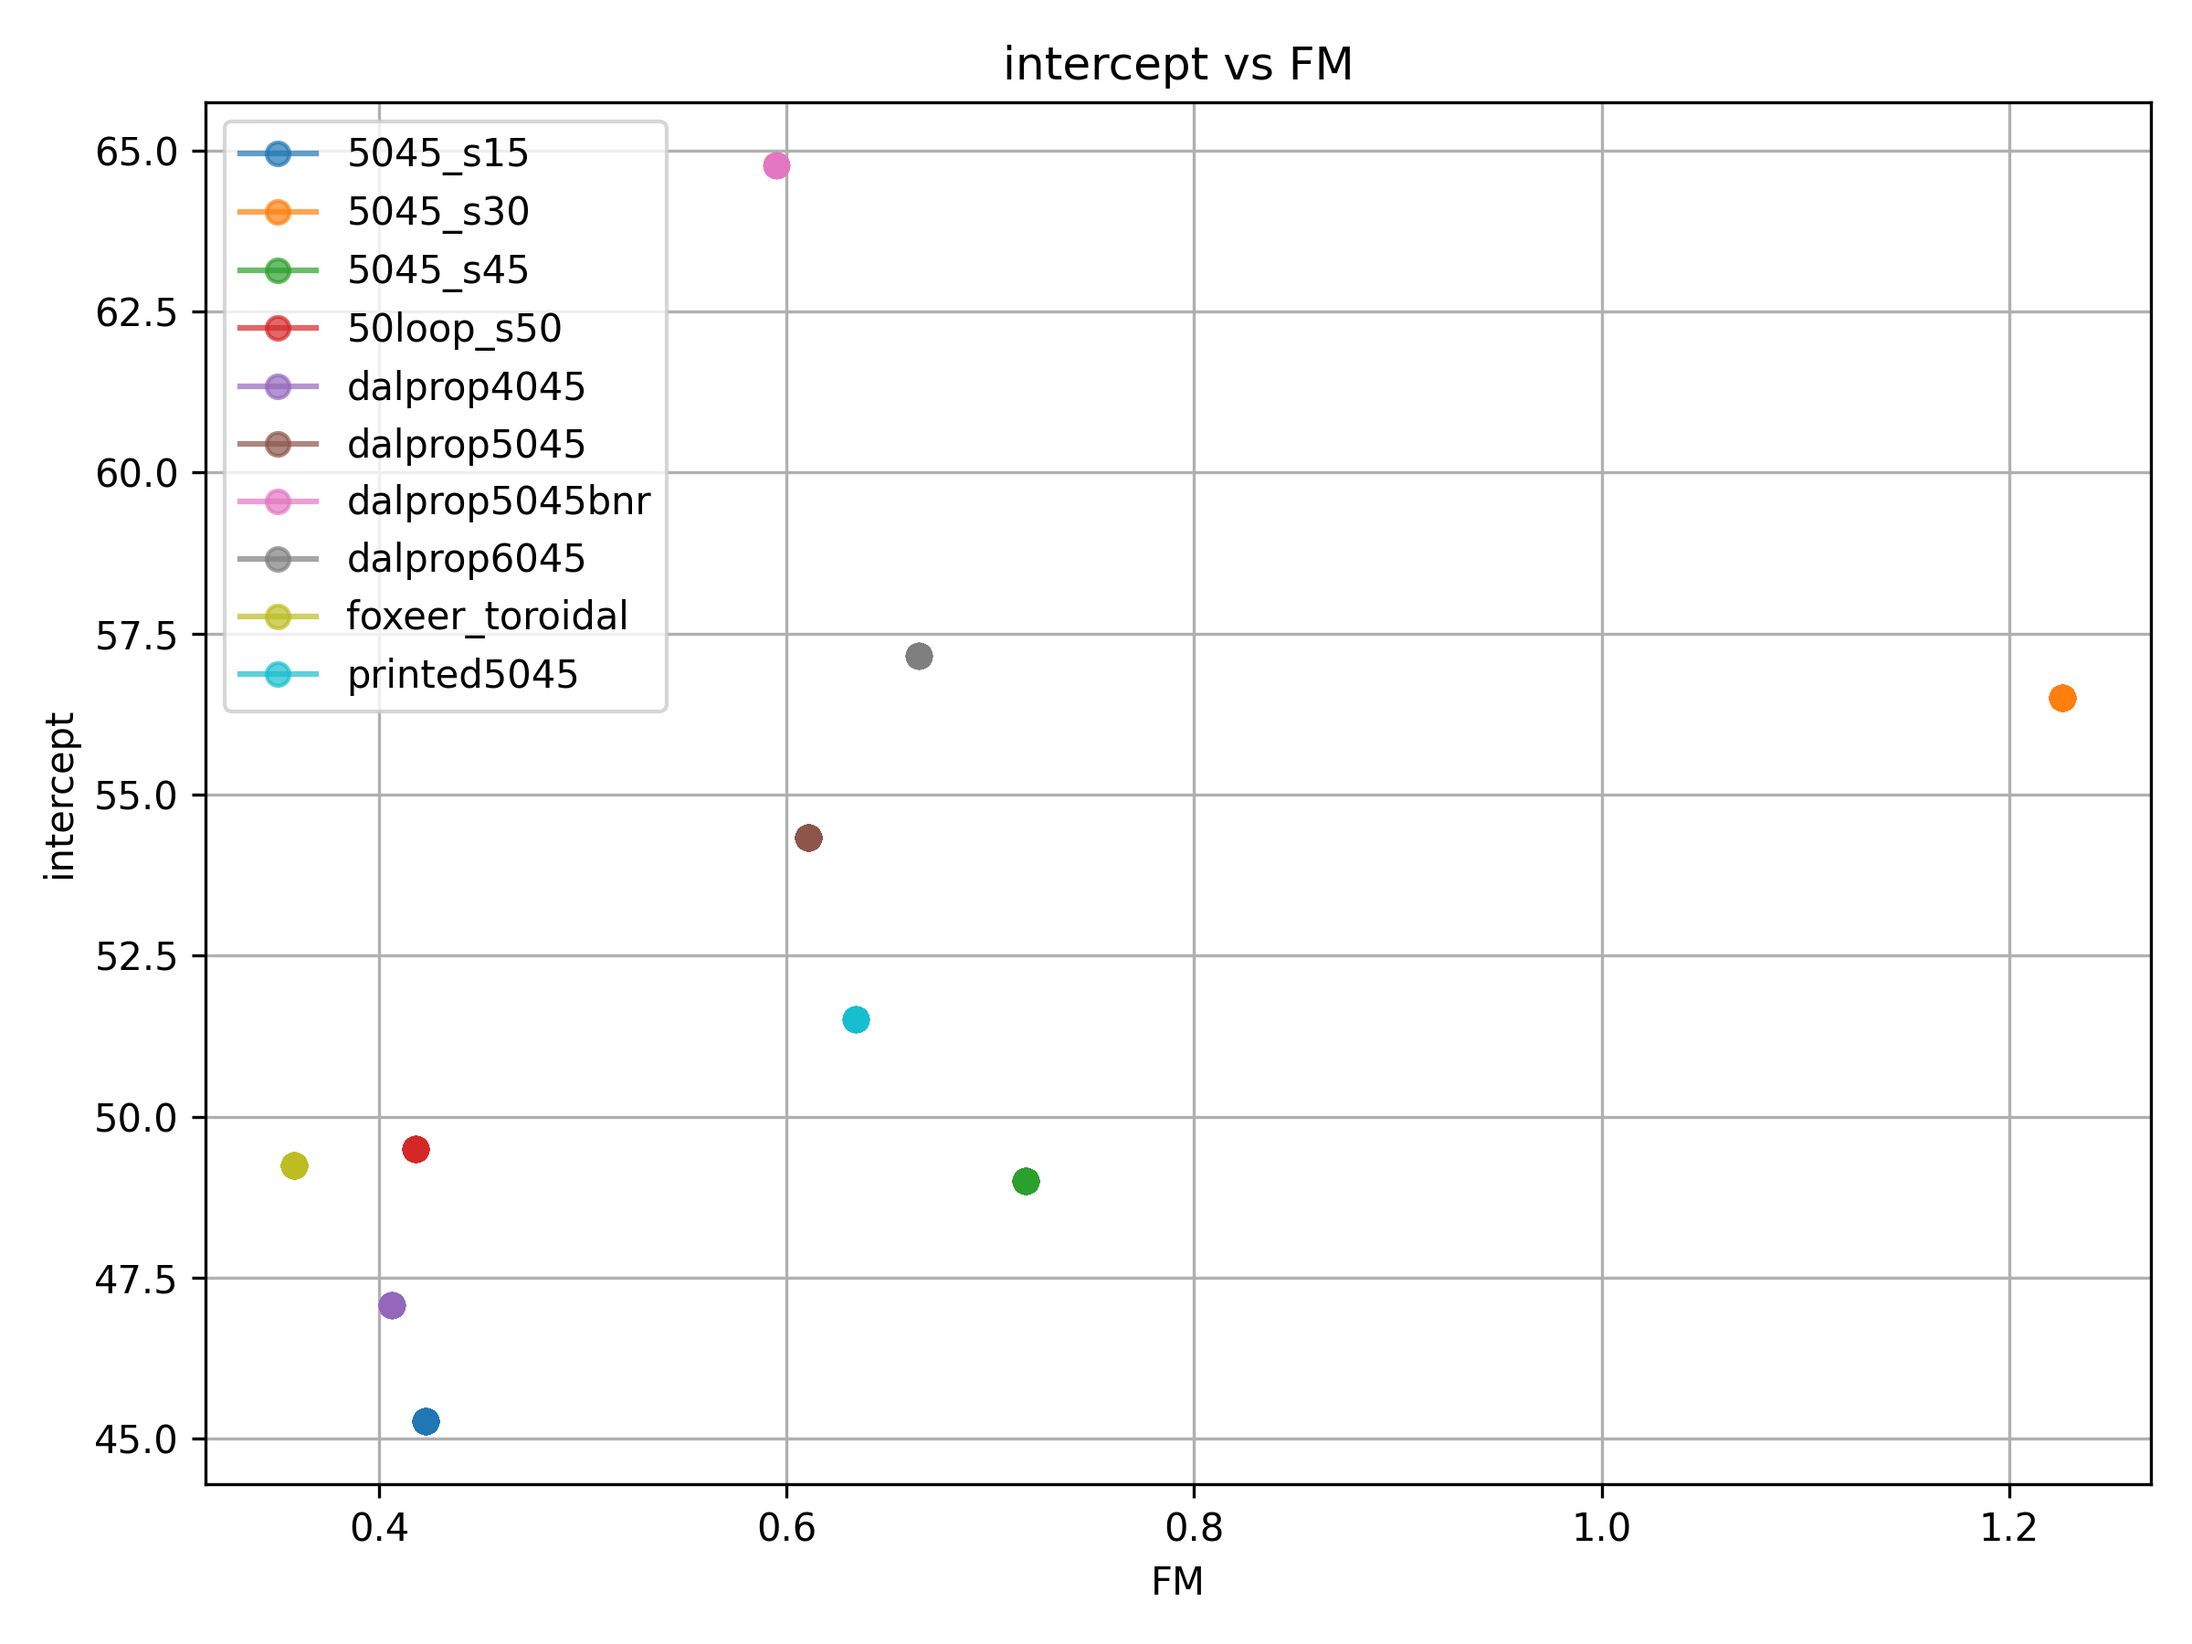
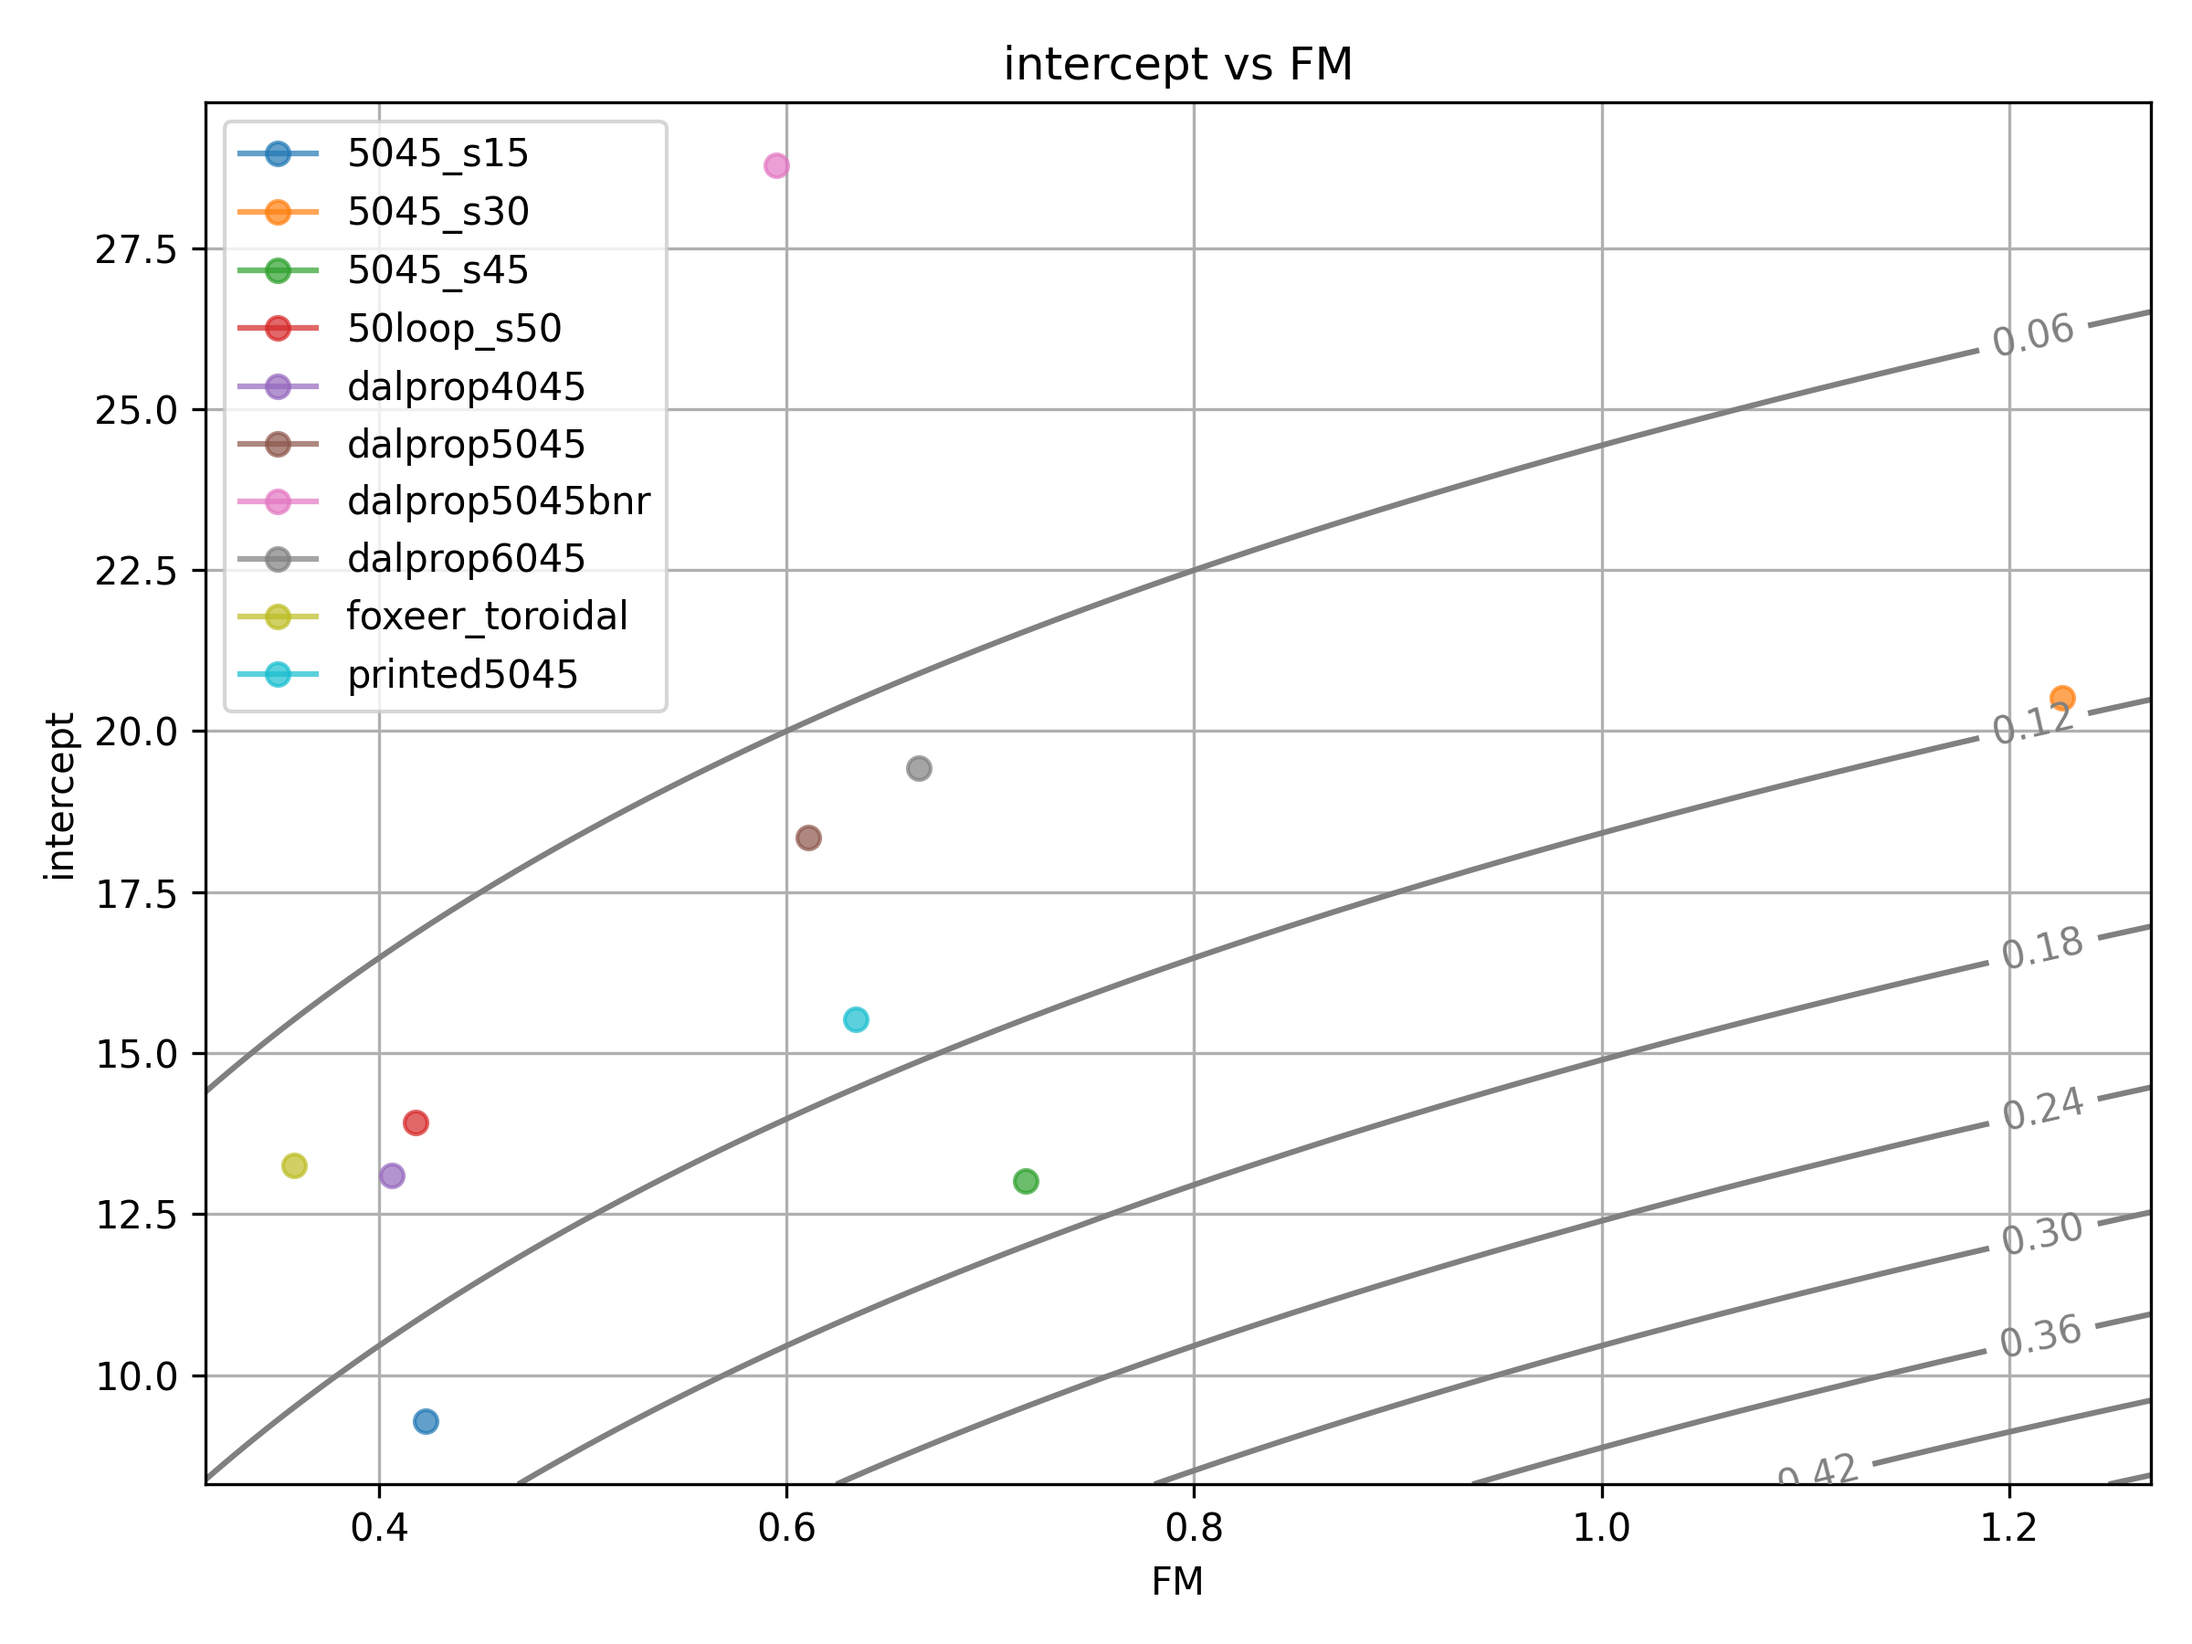
nothing learnt from theory I think im going to abandon ship and focus on the development of the method

diff --git a/app/theory/hanson_comp_quadratic.py b/app/theory/hanson_comp_quadratic.py
@@ -116,7 +116,7 @@ def hanson_noise(prop, oper, airfoil_data, bem_res, r_rt, theta, ms = np.arange(
     
     # already non-dimensional
     SPL = 10 * np.log10(harmonic_noise * np.conj(harmonic_noise))
-    return SPL
+    return SPL - 20 * np.log10(20e-6)
 
 
 def parse_tdf(hdf):
@@ -180,7 +180,22 @@ def parse_tdf(hdf):
     # TODO need a way to aggregate theoretical distance
 
     return tdf
-    
+
+def merge_aero_coeffs(df, aero_coeffs):
+    # merge the aero coefficients into the dataframe
+
+    #aero_coeffs is a dict
+    # with key 'propeller' : [CQ, CT]
+
+    aero_coeffs_df = pd.DataFrame.from_dict(aero_coeffs, orient='index', columns=['CT', 'CQ'])
+    aero_coeffs_df.index.name = 'propeller'
+    aero_coeffs_df.reset_index(inplace=True)
+
+    aero_coeffs_df['FM'] = (aero_coeffs_df['CT'] ** (3/2)) / (np.sqrt(2) * aero_coeffs_df['CQ'])
+
+    # merge
+    rdf = df.merge(aero_coeffs_df, on='propeller', how='left')
+    return rdf
 
 if __name__ == "__main__":
 
@@ -190,6 +205,7 @@ if __name__ == "__main__":
     )
     
     ldf = parse_lookup_df('app/results')
+
     hdf = parse_harmonic_df(ldf, aero_coeffs)
     rdf = fixed_speed_distance_regression(hdf)
     tdf = parse_tdf(hdf)
@@ -200,8 +216,37 @@ if __name__ == "__main__":
 
     # merge tdf and rdf
     rdf = rdf.merge(tdf, on=['propeller', 'angle_bin', 'harmonic'], how='left')
+    rdf = merge_aero_coeffs(rdf, aero_coeffs)
 
-    print(rdf.head())
+    fdf = filter_df(rdf, {'harmonic': 1,
+                          'angle_bin':135,
+                          'distance' : (19, 21)})
+    
+    fdf.plot.bar(
+        x='propeller', y=['FMbem', 'FM'], 
+        title='Hanson Noise vs SPL for Harmonic 1 at 135 degrees'
+    )
+
+    fdf.plot.bar(
+        x='propeller', y=['SPLhanson', 'intercept'], 
+        title='Hanson Noise vs SPL for Harmonic 1 at 135 degrees'
+    )
+
+    fdf = filter_df(rdf, {'propeller': 'dalprop5045',
+                          'angle_bin': 135,
+                          'distance' : (19, 21)})
+    fdf.plot.line(
+        x='harmonic', y=['SPLhanson', 'intercept'], 
+        title='Hanson Noise vs SPL for Dalprop 5045 at 135 degrees'
+    )
+
+    fdf = filter_df(rdf, {'propeller': 'dalprop5045',
+                          'harmonic': 4,
+                          'distance' : (19, 21)})
+    fdf.plot.line(
+        x='angle_bin', y=['SPLhanson', 'intercept'], 
+        title='Hanson Noise vs SPL for Dalprop 5045 at 1st harmonic'
+    )
     
     plt.show()
 
@@ -210,5 +255,5 @@ if __name__ == "__main__":
 
 
 
-    
+
 

diff --git a/app/results/residual_function_variation.py b/app/results/residual_function_variation.py
@@ -113,7 +113,7 @@ def plot_sound_FOM(hdf, aero_data):
 
     PM = xmesh / (10 ** (ymesh / 20))
     # contour with labels
-    CS = ax.contour(xmesh, ymesh, PM, colors='gray', levels=np.logspace(1, np.log10(300), 10))
+    CS = ax.contour(xmesh, ymesh, PM, colors='gray')
     ax.clabel(CS, inline=True, fontsize=10, fmt='%.2f')
 
     return fig, ax
